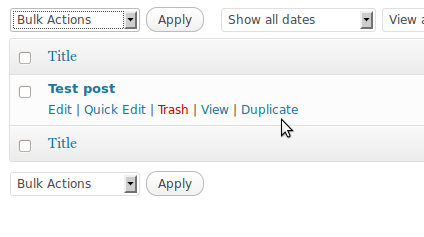
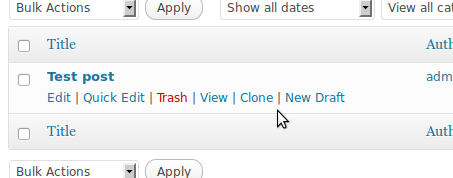
Permalink bug fixed, double choice, multisite tested
git-svn-id: https://plugins.svn.wordpress.org/duplicate-post/tags/2.0.2@473961 b8457f37-d9ea-0310-8a92-e5e31aec5664

diff --git a/duplicate-post-admin.php b/duplicate-post-admin.php
@@ -6,7 +6,7 @@ return;
 require_once (dirname(__FILE__).'/duplicate-post-options.php');
 
 // Version of the plugin
-define('DUPLICATE_POST_CURRENT_VERSION', '2.0.1' );
+define('DUPLICATE_POST_CURRENT_VERSION', '2.0.2' );
 
 /**
  * Wrapper for the option 'duplicate_post_version'
@@ -57,7 +57,21 @@ function duplicate_post_plugin_activation() {
 	}
 	// Update version number
 	update_option( 'duplicate_post_version', duplicate_post_get_current_version() );
+	
+	// enable notice
+	update_option('dp_notice', 1);
 }
+
+
+function dp_admin_notice(){
+    echo '<div class="updated">
+       <p>'.sprintf(__('<strong>Duplicate Post</strong> now has two different ways to work: you can clone immediately or you can copy to a new draft to edit.<br/>
+       Learn more on the <a href="%s">plugin page</a>.', DUPLICATE_POST_I18N_DOMAIN), "http://wordpress.org/extend/plugins/duplicate-post/").'</p>
+    </div>';
+	update_option('dp_notice', 0);
+}
+
+if(get_option('dp_notice') != 0) add_action('admin_notices', 'dp_admin_notice');
 
 add_filter('post_row_actions', 'duplicate_post_make_duplicate_link_row',10,2);
 add_filter('page_row_actions', 'duplicate_post_make_duplicate_link_row',10,2);
@@ -68,10 +82,14 @@ add_filter('page_row_actions', 'duplicate_post_make_duplicate_link_row',10,2);
 function duplicate_post_make_duplicate_link_row($actions, $post) {
 	if (duplicate_post_is_current_user_allowed_to_copy()) {
 		$theUrl = admin_url('admin.php?action=duplicate_post_save_as_new_post&amp;post=' . $post->ID);
+		$theUrlDraft = admin_url('admin.php?action=duplicate_post_save_as_new_post_draft&amp;post=' . $post->ID);
 		$post_type_obj = get_post_type_object( $post->post_type );
 		$actions['duplicate'] = '<a href="'.$theUrl.'" title="'
 		. esc_attr(__("Clone this item", DUPLICATE_POST_I18N_DOMAIN))
-		. '" rel="permalink">' .  __("Duplicate", DUPLICATE_POST_I18N_DOMAIN) . '</a>';
+		. '" rel="permalink">' .  __('Clone', DUPLICATE_POST_I18N_DOMAIN) . '</a>';
+		$actions['edit_as_new_draft'] = '<a href="'.$theUrlDraft.'" title="'
+		. esc_attr(__('Copy to a new draft', DUPLICATE_POST_I18N_DOMAIN))
+		. '" rel="permalink">' .  __('New Draft', DUPLICATE_POST_I18N_DOMAIN) . '</a>';
 	}
 	return $actions;
 }
@@ -247,21 +265,11 @@ function duplicate_post_create_duplicate($post, $status = '') {
 	// Insert the new template in the post table
 	$wpdb->query(
 			"INSERT INTO $wpdb->posts
-			(post_author, post_date, post_date_gmt, post_content, post_content_filtered, post_title, post_excerpt,  post_status, post_type, comment_status, ping_status, post_password, to_ping, pinged, post_modified, post_modified_gmt, post_parent, menu_order, post_mime_type, post_name)
+			(post_author, post_date, post_date_gmt, post_content, post_content_filtered, post_title, post_excerpt,  post_status, post_type, comment_status, ping_status, post_password, to_ping, pinged, post_modified, post_modified_gmt, post_parent, menu_order, post_mime_type)
 			VALUES
-			('$new_post_author->ID', '$new_post_date', '$new_post_date_gmt', '$post_content', '$post_content_filtered', '$post_title', '$post_excerpt', '$new_post_status', '$new_post_type', '$comment_status', '$ping_status', '$post->post_password', '$post->to_ping', '$post->pinged', '$new_post_date', '$new_post_date_gmt', '$post->post_parent', '$post->menu_order', '$post->post_mime_type', '$post_name')");
+			('$new_post_author->ID', '$new_post_date', '$new_post_date_gmt', '$post_content', '$post_content_filtered', '$post_title', '$post_excerpt', '$new_post_status', '$new_post_type', '$comment_status', '$ping_status', '$post->post_password', '$post->to_ping', '$post->pinged', '$new_post_date', '$new_post_date_gmt', '$post->post_parent', '$post->menu_order', '$post->post_mime_type')");
 
 	$new_post_id = $wpdb->insert_id;
-
-	$post_name = wp_unique_post_slug($post_name, $new_post_id, $new_post_status, $new_post_type, $post->post_parent);
-
-	$new_post = array();
-	$new_post['ID'] = $new_post_id;
-	$new_post['post_name'] = $post_name;
-
-	// Update the post into the database
-	wp_update_post( $new_post );
-
 
 	// Copy the taxonomies
 	duplicate_post_copy_post_taxonomies($post->ID, $new_post_id, $post->post_type);
@@ -277,6 +285,18 @@ function duplicate_post_create_duplicate($post, $status = '') {
 	do_action( 'dp_duplicate_page', $new_post_id, $post );
 	else
 	do_action( 'dp_duplicate_post', $new_post_id, $post );
+
+	// If the copy gets immediately published, we have to set a proper slug.
+	if ($new_post_status == 'publish'){
+		$post_name = wp_unique_post_slug($post_name, $new_post_id, $new_post_status, $new_post_type, $post->post_parent);
+
+		$new_post = array();
+		$new_post['ID'] = $new_post_id;
+		$new_post['post_name'] = $post_name;
+
+		// Update the post into the database
+		wp_update_post( $new_post );
+	}
 
 	return $new_post_id;
 }

diff --git a/duplicate-post-options.php b/duplicate-post-options.php
@@ -39,7 +39,7 @@ function duplicate_post_options() {
 				<th scope="row"><?php _e("Copy post/page date also", DUPLICATE_POST_I18N_DOMAIN); ?>
 				</th>
 				<td><input type="checkbox" name="duplicate_post_copydate" value="1" <?php  if(get_option('duplicate_post_copydate') == 1) echo 'checked="checked"'; ?>"/>
-					<span class="description"><?php _e("Normally, the new draft has publication date set to current time: check the box to copy the original post/page date", DUPLICATE_POST_I18N_DOMAIN); ?>
+					<span class="description"><?php _e("Normally, the new copy has its publication date set to current time: check the box to copy the original post/page date", DUPLICATE_POST_I18N_DOMAIN); ?>
 				</span>
 				</td>
 			</tr>
@@ -47,7 +47,7 @@ function duplicate_post_options() {
 				<th scope="row"><?php _e("Copy post/page status", DUPLICATE_POST_I18N_DOMAIN); ?>
 				</th>
 				<td><input type="checkbox" name="duplicate_post_copystatus" value="1" <?php  if(get_option('duplicate_post_copystatus') == 1) echo 'checked="checked"'; ?>"/>
-					<span class="description"><?php _e("Copy the original post status (draft, published, pending) when cloning from the post list. Cloning from the edit screen will always create a new draft.", DUPLICATE_POST_I18N_DOMAIN); ?>
+					<span class="description"><?php _e("Copy the original post status (draft, published, pending) when cloning from the post list.", DUPLICATE_POST_I18N_DOMAIN); ?>
 				</span>
 				</td>
 			</tr>
@@ -65,7 +65,7 @@ function duplicate_post_options() {
 				</th>
 				<td><input type="text" name="duplicate_post_blacklist"
 					value="<?php echo get_option('duplicate_post_blacklist'); ?>" /> <span
-					class="description"><?php _e("Comma-separated list of meta fields that must not be copied when cloning a post/page", DUPLICATE_POST_I18N_DOMAIN); ?>
+					class="description"><?php _e("Comma-separated list of meta fields that must not be copied", DUPLICATE_POST_I18N_DOMAIN); ?>
 				</span>
 				</td>
 			</tr>
@@ -93,7 +93,7 @@ function duplicate_post_options() {
 				</th>
 				<td><input type="text" name="duplicate_post_title_prefix"
 					value="<?php echo get_option('duplicate_post_title_prefix'); ?>" />
-					<span class="description"><?php _e("Prefix to be added before the original title when cloning a post/page, e.g. \"Copy of\" (blank for no prefix)", DUPLICATE_POST_I18N_DOMAIN); ?>
+					<span class="description"><?php _e("Prefix to be added before the original title, e.g. \"Copy of\" (blank for no prefix)", DUPLICATE_POST_I18N_DOMAIN); ?>
 				</span>
 				</td>
 			</tr>
@@ -102,7 +102,7 @@ function duplicate_post_options() {
 				</th>
 				<td><input type="text" name="duplicate_post_title_suffix"
 					value="<?php echo get_option('duplicate_post_title_suffix'); ?>" />
-					<span class="description"><?php _e("Suffix to be added after the original title when cloning a post/page, e.g. \"(dup)\" (blank for no suffix)", DUPLICATE_POST_I18N_DOMAIN); ?>
+					<span class="description"><?php _e("Suffix to be added after the original title, e.g. \"(dup)\" (blank for no suffix)", DUPLICATE_POST_I18N_DOMAIN); ?>
 				</span>
 				</td>
 			</tr>

diff --git a/duplicate-post-common.php b/duplicate-post-common.php
@@ -60,11 +60,11 @@ function duplicate_post_clone_post_link( $link = null, $before = '', $after = ''
 	return;
 
 	if ( null === $link )
-	$link = __('Clone', DUPLICATE_POST_I18N_DOMAIN);
+	$link = __('Copy to a new draft', DUPLICATE_POST_I18N_DOMAIN);
 
 	$post_type_obj = get_post_type_object( $post->post_type );
 	$link = '<a class="post-clone-link" href="' . $url . '" title="'
-	. esc_attr(__("Clone this item", DUPLICATE_POST_I18N_DOMAIN))
+	. esc_attr(__("Copy to a new draft", DUPLICATE_POST_I18N_DOMAIN))
 	.'">' . $link . '</a>';
 	echo $before . apply_filters( 'duplicate_post_clone_post_link', $link, $post->ID ) . $after;
 }

diff --git a/duplicate-post.php b/duplicate-post.php
@@ -2,8 +2,8 @@
 /*
  Plugin Name: Duplicate Post
  Plugin URI: http://lopo.it/duplicate-post-plugin/
- Description: Creates a copy of a post.
- Version: 2.0.1
+ Description: Clone posts and pages.
+ Version: 2.0.2
  Author: Enrico Battocchi
  Author URI: http://lopo.it
  Text Domain: duplicate-post
